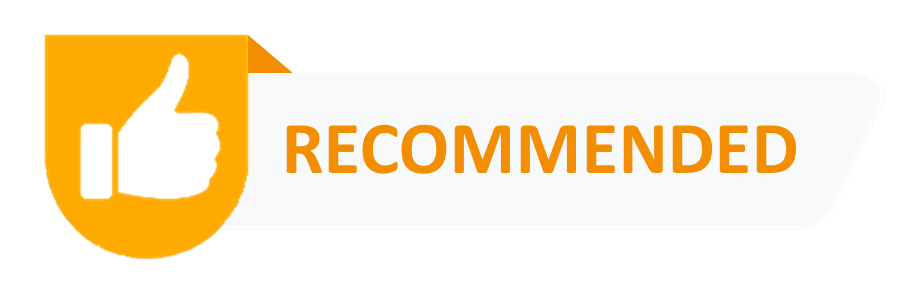
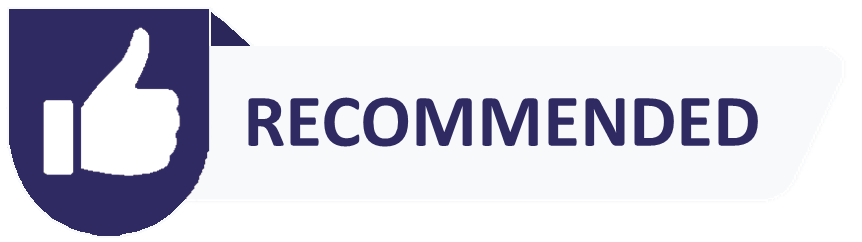
Changed video card backgrounds

Changed region(s): [[0.0, 0.0289, 0.9049, 0.9835]]

diff --git a/frontend/src/components/video/VideoCard.jsx b/frontend/src/components/video/VideoCard.jsx
@@ -21,19 +21,69 @@ function VideoCard(props) {
   const progressBarRef = useRef(null);
 
   const videoThemeDict = {
-    "WATCHED" : ["/static/images/Watched.png", "#99d3ff"],
-    "NEW" : ["/static/images/new_video.png", "#ebc2ac"],
-    "FAVOURITE" : ["/static/images/Favorite Icon.png", "#ff6b87"],
-    "RECOMMENDED" : ["/static/images/Recommended.png", "#f2c73d"], //#ebbb24
+    "DEFAULT" : {
+      "icon" : "",
+      "text": "#fff",
+      "border": "#fff",
+      "theme": "#fff",
+      "glow": false,
+      "background": "linear-gradient(to bottom, #323232 0%, #343434 40%, #000000 150%), linear-gradient(to top, rgba(255,255,255,0.40) 0%, rgba(0,0,0,0.25) 200%)",
+      "animate": false,
+    },
+    "WATCHED" : {
+      "icon" : "/static/images/Watched.png",
+      "text": "#fff",
+      "border": "#fff",
+      "theme": "#fff",
+      "glow": false,
+      // "background": "radial-gradient(circle, #2e89b5 0%, #071217 100%)",
+      "background": "radial-gradient(circle, #247196 0%, #0e2129 100%)",
+      "animate": true,
+    },
+    "NEW" : {
+      "icon" : "/static/images/new_video.png",
+      "text": "#fff",
+      "border": "#fff",
+      "theme": "#fff",
+      "glow": false,
+      "background": "radial-gradient(circle, rgba(236,20,20,1) 0%, rgba(65,12,12,1) 100%)",
+      // "background": "linear-gradient(90deg, rgba(58,134,255,1) 0%, rgba(255,0,110,1) 35%, rgba(255,190,11,1) 100%)",
+      "animate": false,
+    },
+    "FAVOURITE" : {
+      "icon" : "/static/images/Favorite Icon.png",
+      "text": "#fff",
+      "border": "#933595",
+      "theme": "#c5b8f8",
+      "glow": "#bb3eff",
+      "background": "linear-gradient(-225deg, #FF3CAC 0%, #562B7C 52%, #2B86C5 100%)",
+      "animate": true,
+    },
+    "RECOMMENDED" : {
+      "icon" : "/static/images/Recommended.png",
+      "text": "#fff",
+      "border": "#fff",
+      "theme": "#fff",
+      "glow": "#594ae5",
+      "background": "linear-gradient(to right, #0f0c29, #302b63, #24243e)",
+      "animate": true,
+    }
   }
+
+  // const videoThemeDict = {
+  //   "WATCHED" : ["/static/images/Watched.png", "#99d3ff"],
+  //   "NEW" : ["/static/images/new_video.png", "#ebc2ac"],
+  //   "FAVOURITE" : ["/static/images/Favorite Icon.png", "#ff6b87"],
+  //   "RECOMMENDED" : ["/static/images/Recommended.png", "#f2c73d"],
+  // }
 
   const created = new Date(props.created);
 
   useEffect(() => {
-    let videoTheme = videoThemeDict[props.specialTag] || "";
+    let videoTheme = videoThemeDict[props.specialTag] || videoThemeDict["DEFAULT"];
     if (videoTheme) {
-      SetImageTag(videoTheme[0])
-      SetTheme(videoTheme[1])
+      SetImageTag(videoTheme["icon"])
+      SetTheme(videoTheme)
       if (props.specialTag!=="WATCHED") {
         SetGlow(true)
       }
@@ -80,11 +130,32 @@ function VideoCard(props) {
 
   useEffect(() => {
     videoCardRef.current.style.setProperty(
-      "--video-card-theme",
-      theme
+      "--video-card-text-color",
+      theme["text"]
     );
+    videoCardRef.current.style.setProperty(
+      "--video-card-border-color",
+      theme["border"]
+    );
+    videoCardRef.current.style.setProperty(
+      "--video-card-theme",
+      theme["theme"]
+    );
+    videoCardRef.current.style.setProperty(
+      "--video-card-background",
+      theme["background"]
+    );
+    videoCardRef.current.style.setProperty(
+      "--video-card-glow",
+      theme["glow"]
+    );
+
+    if (theme["animate"]){
+      videoCardRef.current.classList.add("animate-background");
+    }
+
     if (glow){
-      videoCardRef.current.style.boxShadow = "0px 18px 60px -33px  var(--video-card-theme)"
+      videoCardRef.current.style.boxShadow = "0px 18px 60px -33px  var(--video-card-glow)"
     }
   }, [theme, glow]);
 
@@ -148,21 +219,21 @@ function VideoCard(props) {
         let videoTheme = videoThemeDict[response.data.special_tag] || "";
         SetFavorite(false)
         if (videoTheme) {
-          SetImageTag(videoTheme[0])
-          SetTheme(videoTheme[1])
+          SetImageTag(videoTheme["icon"])
+          SetTheme(videoTheme)
           if (props.specialTag!=="WATCHED") {
             SetGlow(true)
           }
         }else{
           SetGlow(false)
           SetImageTag("")
-          SetTheme("#f8f9fa")
+          SetTheme(videoThemeDict["DEFAULT"])
         }
       }else{
         SetFavorite(true)
         SetGlow(true)
-        SetTheme(videoThemeDict["FAVOURITE"][1])
-        SetImageTag(videoThemeDict["FAVOURITE"][0])
+        SetTheme(videoThemeDict["FAVOURITE"])
+        SetImageTag(videoThemeDict["FAVOURITE"]["icon"])
       }
     });
   };

diff --git a/frontend/static/css/video/VideoCard.css b/frontend/static/css/video/VideoCard.css
@@ -1,13 +1,19 @@
 .video-card {
+  --video-card-text-color: #fff;
+  --video-card-border-color: #fff;
   --video-card-theme: #fff;
+  --video-card-glow: #fff;
+  --video-card-background: linear-gradient(to bottom, #323232 0%, #343434 40%, #000000 150%), linear-gradient(to top, rgba(255,255,255,0.40) 0%, rgba(0,0,0,0.25) 200%);
+
   width: 385px;
   height: 319px;
-  border: 1px solid var(--video-card-theme);
+  border: 1px solid var(--video-card-border-color);
   border-radius: 14px;
-  color: var(--video-card-theme);
+  color: var(--video-card-text-color);
   max-height: 510px;
   transition: max-height 0.25s ease-in;
-  background-color: #141414;
+  background-image: var(--video-card-background);
+  background-blend-mode: multiply;
 }
 
 .video-card:hover {
@@ -26,7 +32,7 @@
 
 .video-card a {
   text-decoration: none !important;
-  color: var(--video-card-theme);
+  color: var(--video-card-text-color);
 }
 
 .preview-video-container {
@@ -291,16 +297,10 @@
   align-items: center;
 }
 
-/* 
-.video-card {
-  background: linear-gradient(60deg, #f79533, #f37055, #ef4e7b, #a166ab, #5073b8, #1098ad, #07b39b, #6fba82);
-}
-
-.video-card:hover{
+.animate-background:hover{
   animation: animatedgradient 3s ease alternate infinite;
   background-size: 300% 300%;
 }
-
 
 @keyframes animatedgradient {
 	0% {
@@ -312,5 +312,49 @@
 	100% {
 		background-position: 0% 50%;
 	}
+}  
+
+/* .video-card {
+  
+  background: bottom;
+  background-image: url(https://static.vecteezy.com/system/resources/thumbnails/001/857/413/small/gold-metal-background-vector.jpg);
+  box-shadow: 0px 18px 70px -33px #ffde11;
+  font-weight: 600;
+  border: 1px solid #ffe400;
+  color: black!important;
+} */
+
+
+/* 
+
+.video-card {
+  background: linear-gradient(to bottom, rgba(255,255,255,0.15) 0%, rgba(0,0,0,0.15) 100%), radial-gradient(at top center, rgba(255,255,255,0.40) 0%, rgba(0,0,0,0.40) 120%) #989898;
+  background-blend-mode: multiply,multiply;
+  color: #fff;
+  border: 1px solid white!important;
+  box-shadow: 0px 18px 131px -33px #000000!important;
 }
- */
+
+.video-card { GOLD
+  background: bottom;
+  background-image: url(https://static.vecteezy.com/system/resources/thumbnails/001/857/413/small/gold-metal-background-vector.jpg);
+  box-shadow: 0px 18px 131px -33px #ffde11;
+  font-weight: 600;
+  border: 1px solid #ffe400;
+  color: black!important;
+}
+
+
+.video-card {
+  background: linear-gradient(-225deg, #FF3CAC 0%, #562B7C 52%, #2B86C5 100%);
+  color: white!important;
+}
+
+.video-card:hover{
+  animation: animatedgradient 3s ease alternate infinite;
+  background: linear-gradient(-225deg, #FF3CAC 0%, #562B7C 52%, #2B86C5 100%);
+  background-size: 300% 300%;
+}
+
+*/
+

diff --git a/frontend/static/css/pages/VideoPlayerPage.css b/frontend/static/css/pages/VideoPlayerPage.css
@@ -43,7 +43,7 @@
 
 .video-player-title h1{
     margin: 0;
-    background: linear-gradient( 135deg, #81FFEF 10%, #F067B4 100%);
+    background: linear-gradient(90deg,#2ca2b4,#5598de 24%,#7f87ff 45%,#f65aad 76%,#ec3d43);
 	-webkit-background-clip: text;
 	-webkit-text-fill-color: transparent;
 }

diff --git a/MediaSurfer/settings.py b/MediaSurfer/settings.py
@@ -57,7 +57,7 @@ MIDDLEWARE = [
 ]
 
 # TODO move pin to more secure location
-PIN_PASSCODE_PIN = 0000
+PIN_PASSCODE_PIN = 1234
 
 ROOT_URLCONF = 'MediaSurfer.urls'
 
